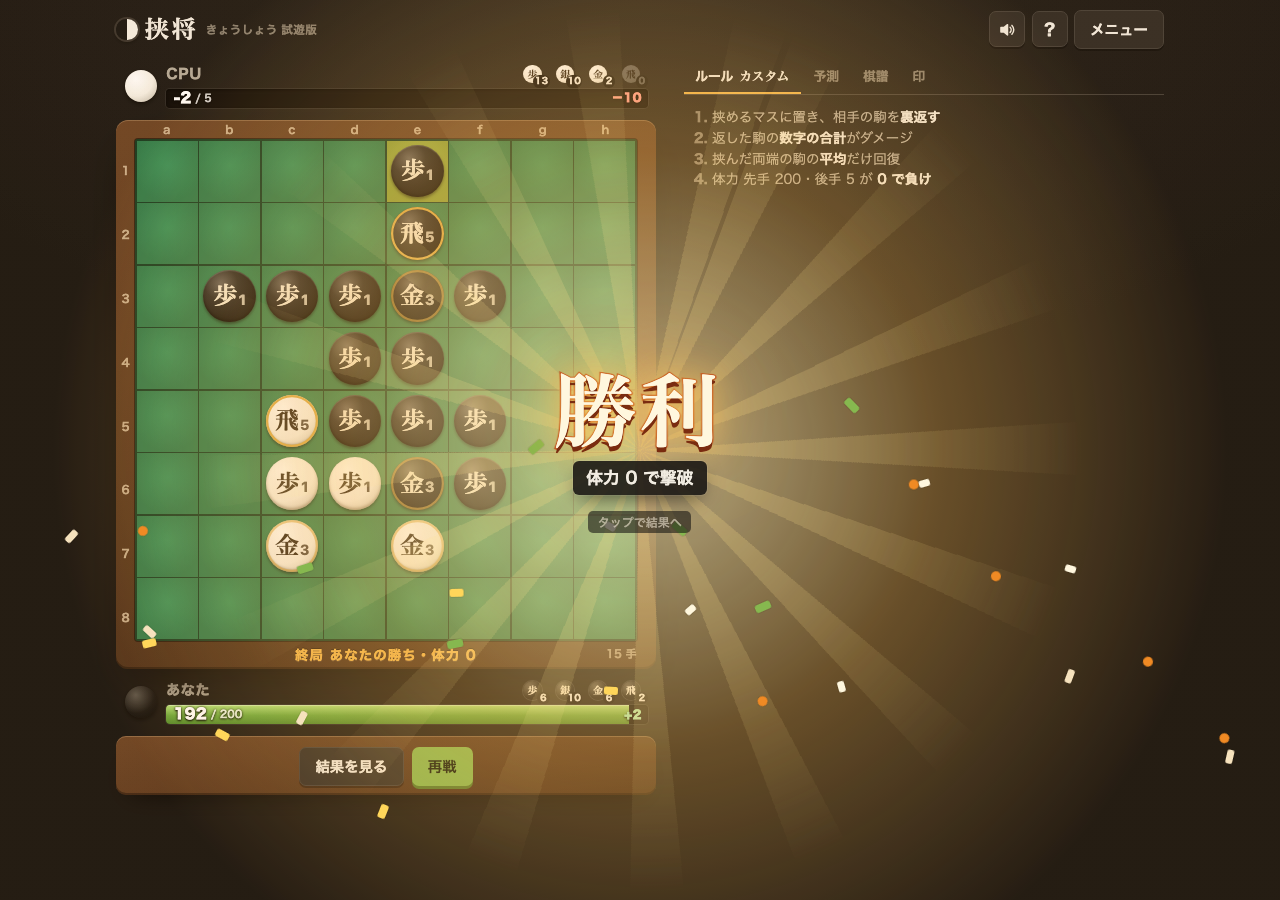
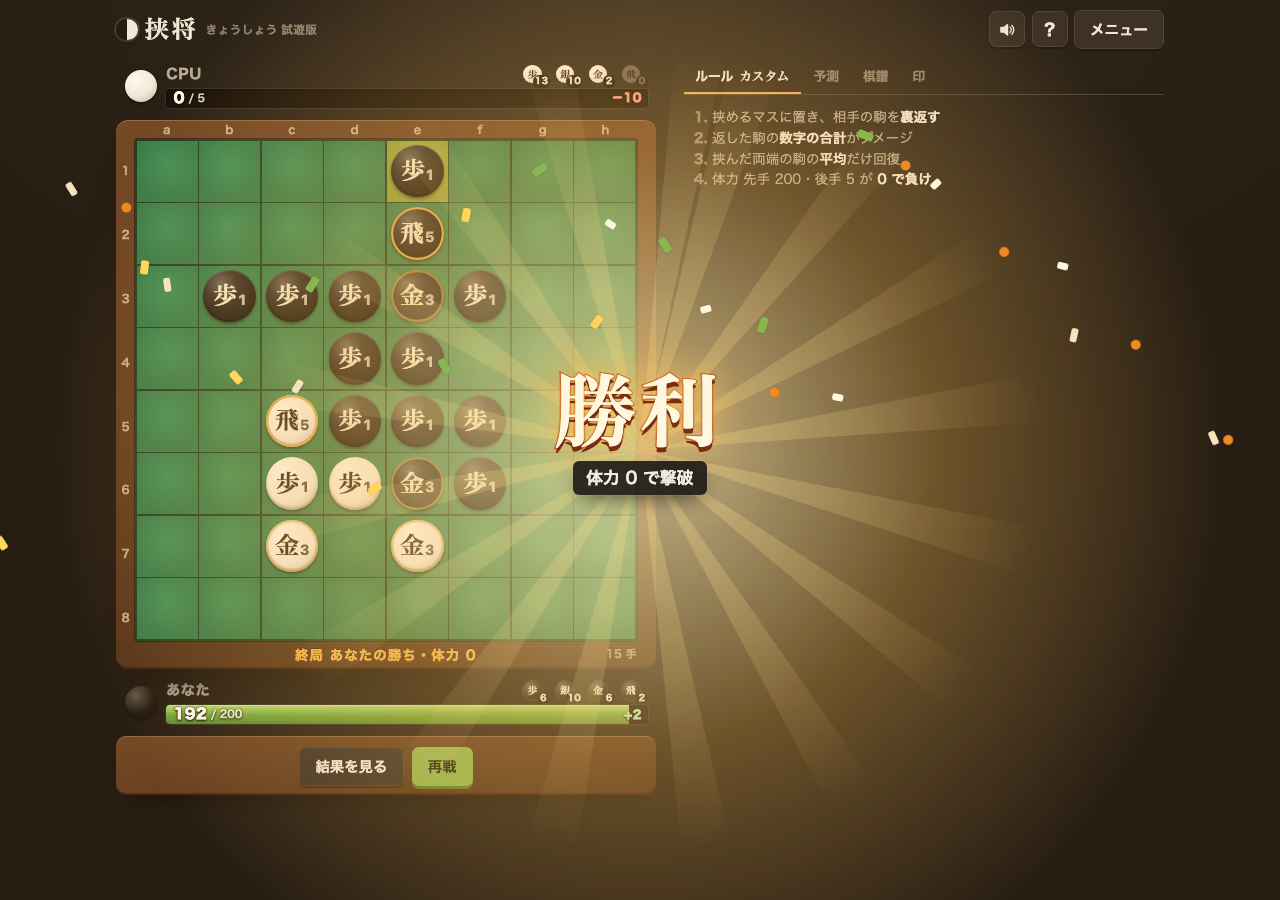
[修正] 決着の一手で体力が 0 を下回ったとき、成績表と名札に 0 と出す
エンジンの体力は残りを超えるダメージ・王の罰をそのまま引くので負になる（sim と同じ値で、
棋譜の再生テストが突き合わせるため変えない）。表示だけ impact.ts の shownHp で 0 に止め、
名札の減った分のゲージも手の前の体力から数える。

diff --git a/web/src/ui/app.ts b/web/src/ui/app.ts
@@ -63,7 +63,7 @@ import { clockLevel, clockText, cpuTurnSeconds, turnSecondsText, TurnClock } fro
 import { byId, h } from "./dom";
 import { finaleMs, Fx, fxTiming, speakerIcon, type FxTiming } from "./fx";
 import { OnlineDialog } from "./online";
-import { hitOf, statsOf, tierOf, tierText, type HitBreakdown, type PlayerStats, type Tier } from "./impact";
+import { hitOf, shownHp, statsOf, tierOf, tierText, type HitBreakdown, type PlayerStats, type Tier } from "./impact";
 import { outcomeOf, type Outcome } from "./outcome";
 import { dirMark, endDetails, handText, hpText, kingPenaltyText, pieceLabel, ruleDetails, ruleLines, verb } from "./ruletext";
 import { Coach } from "./coach";
@@ -1558,18 +1558,19 @@ export class App {
     const onTray = g.result ? null : this.viewer(g);
     for (const p of [0, 1] as const) {
       const el = this.el.players[p];
-      const hp = g.hp[p];
+      const hp = shownHp(g.hp[p]);
       const max = g.rules.hp[p];
-      const pct = Math.max(0, Math.min(100, (hp / max) * 100));
+      const pct = Math.min(100, (hp / max) * 100);
       // 直前の手で減った・増えた量（新しい手の直後だけアニメーションさせる）
       let delta: HTMLElement | null = null;
       const lost = last && last.player !== p ? last.damage + (last.king?.penalty ?? 0) : 0;
       if (lost > 0) delta = h("span", { class: `delta${fresh ? " fresh" : ""}`, text: `−${lost}` });
       if (last && last.player === p && last.heal > 0) delta = h("span", { class: `delta heal${fresh ? " fresh" : ""}`, text: `+${last.heal}` });
-      // 減った分はゲージに赤く残してから縮める（格闘ゲームの体力ゲージのように。新しい手の直後だけ）
+      // 減った分はゲージに赤く残してから縮める（格闘ゲームの体力ゲージのように。新しい手の直後だけ）。
+      // 幅は手の前の体力（0 で止める前の値に減った分を足す）から今の体力まで
       const ghost =
         fresh && lost > 0
-          ? h("span", { class: "hp-ghost", attrs: { style: `left:${pct}%;width:${Math.min(100 - pct, (lost / max) * 100)}%` } })
+          ? h("span", { class: "hp-ghost", attrs: { style: `left:${pct}%;width:${Math.min(100, ((g.hp[p] + lost) / max) * 100) - pct}%` } })
           : null;
       const turn = !g.result && g.turn === p;
       el.className = `player-card p${p}`;
@@ -1594,7 +1595,7 @@ export class App {
                 "aria-label": `${PLAYER_NAME[p]}の体力`,
                 "aria-valuemin": "0",
                 "aria-valuemax": String(Math.max(max, hp)),
-                "aria-valuenow": String(Math.max(0, hp)),
+                "aria-valuenow": String(hp),
               },
             },
             [
@@ -2202,7 +2203,7 @@ export class App {
     byId("result-detail").replaceChildren(
       h("table", { class: "score" }, [
         h("thead", {}, [h("tr", {}, [h("td"), head(0), head(1)])]),
-        h("tbody", {}, [row("体力", [String(g.hp[0]), String(g.hp[1])]), row("石数", [String(discs[0]), String(discs[1])]), king]),
+        h("tbody", {}, [row("体力", [String(shownHp(g.hp[0])), String(shownHp(g.hp[1]))]), row("石数", [String(discs[0]), String(discs[1])]), king]),
       ]),
       h("p", { class: "score-foot", text: `${g.ply} 手・ルール ${ruleName(g.rules)}${this.levelText()}${this.timeText()}` }),
     );

diff --git a/web/test/impact.test.ts b/web/test/impact.test.ts
@@ -5,7 +5,7 @@ import type { GameEvent, MoveEvent } from "../src/engine/game";
 import { createGame, lastMoveOf, playMove } from "../src/engine/game";
 import type { RuleSet } from "../src/engine/rules";
 import { fxTiming, MAX_HOLD_MS } from "../src/ui/fx";
-import { hitOf, statsOf, TIER_THRESHOLDS, tierOf, tierText } from "../src/ui/impact";
+import { hitOf, shownHp, statsOf, TIER_THRESHOLDS, tierOf, tierText } from "../src/ui/impact";
 import { boardOf, rulesOf, stateOf } from "./helpers";
 
 /** 先手（player 0）が後手を攻めた手 */
@@ -147,5 +147,14 @@ describe("演出の長さ", () => {
   it("動きを減らす設定では溜めを省く", () => {
     expect(fxTiming("huge", 8, true)).toMatchObject({ step: 0, burstAt: 0 });
     expect(fxTiming("big", 8, true).hold).toBeLessThanOrEqual(MAX_HOLD_MS);
+  });
+});
+
+describe("画面に出す体力", () => {
+  it("決着の一手で 0 を下回った体力は 0 と出し、0 以上はそのまま", () => {
+    expect(shownHp(-2)).toBe(0);
+    expect(shownHp(-35)).toBe(0);
+    expect(shownHp(0)).toBe(0);
+    expect(shownHp(129)).toBe(129);
   });
 });

diff --git a/web/e2e/result.spec.ts b/web/e2e/result.spec.ts
@@ -115,7 +115,13 @@ for (const project of ["desktop", "mobile"] as const) {
       await expect(page.locator("#result-stats .stats")).toHaveCount(1);
       await expect(page.locator("#result-cheer")).toBeHidden();
       await expect(page.locator("#result-rematch")).not.toHaveClass(/urge/);
+      // 決着の一手は残りの体力を超えるダメージ。エンジンの体力は 0 未満だが、成績表・名札は 0 と出す
+      expect(s.hp[1]).toBeLessThan(0);
+      await expect(page.locator("#result-detail .score tbody tr").first().locator("td")).toHaveText([String(s.hp[0]), "0"]);
+      await expect(page.locator(".player-card.p1 .hp-num")).toHaveText("0");
+      await expect(page.locator(".player-card.p1 .hp-gauge")).toHaveAttribute("aria-valuenow", "0");
       if (touch) await noHorizontalScroll(page, 375);
+      await page.screenshot({ path: `${SHOT}/${pre}-result-win-screen.png` });
       expect(errors).toEqual([]);
     });
 

diff --git a/web/src/ui/impact.ts b/web/src/ui/impact.ts
@@ -35,6 +35,12 @@ export function hitOf(rules: RuleSet, m: MoveEvent): HitBreakdown {
   return { total: m.damage + penalty, base: m.damage - anchor, anchor, penalty };
 }
 
+/**
+ * 画面に出す体力。エンジンの体力は決着の一手で 0 を下回ることがある（残りを超えるダメージ・王の罰をそのまま引く。
+ * sim と同じ値で、棋譜の再生テストが突き合わせる）ので、表示だけ 0 で止める
+ */
+export const shownHp = (hp: number) => Math.max(0, hp);
+
 /** 手の段階。王を返した手は特大。それ以外は合計 ÷ 受けた側の体力上限（RuleSet.hp）で決める */
 export function tierOf(rules: RuleSet, m: MoveEvent): Tier {
   if (m.king) return "huge";
